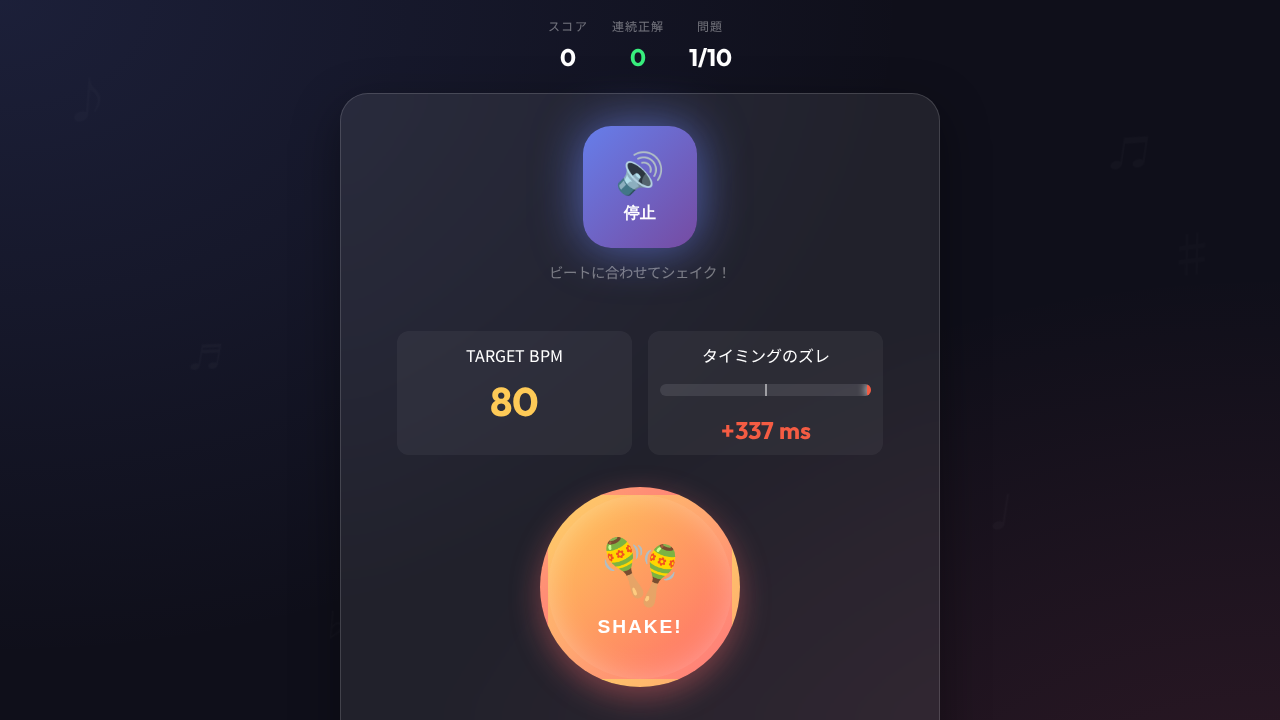
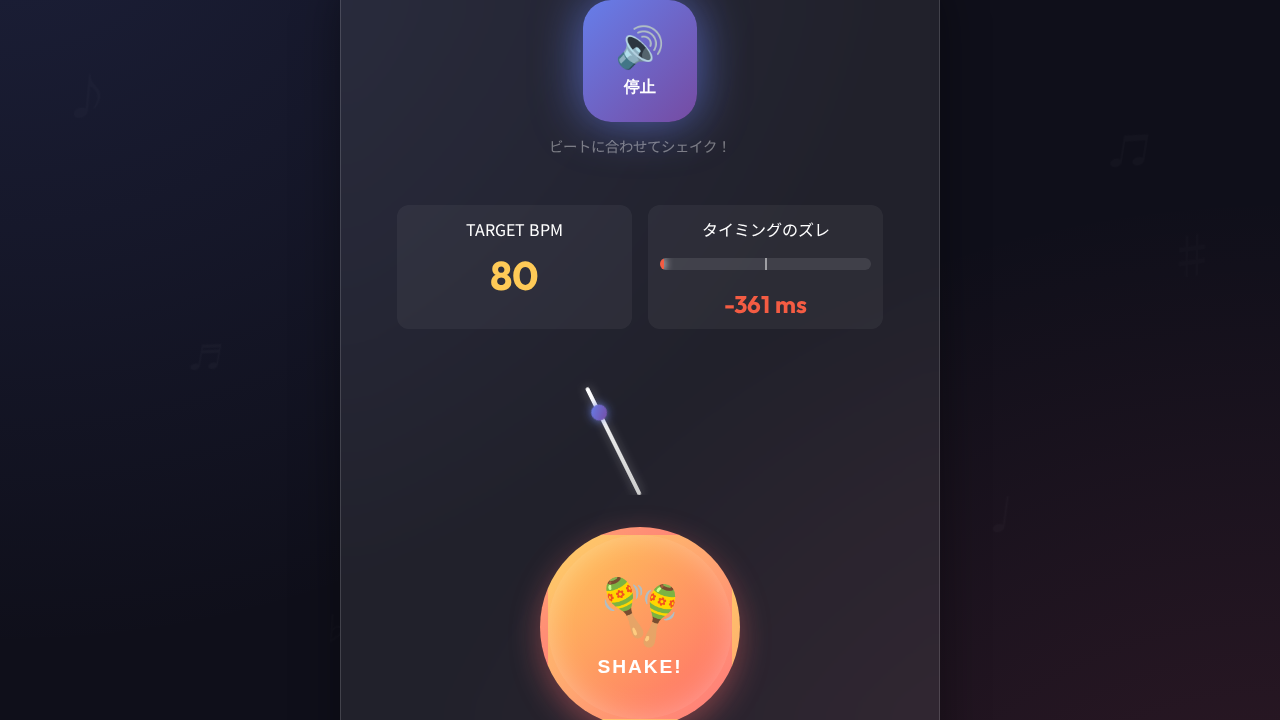
Add visual metronome to Maracas mode

diff --git a/game.js b/game.js
@@ -78,6 +78,7 @@ class Game {
         this.drumModeUI = document.getElementById('drum-mode-ui');
         this.drumPads = document.getElementById('drum-pads');
         this.maracasModeUI = document.getElementById('maracas-mode-ui');
+        this.metronomeRod = document.getElementById('metronome-rod');
 
         // ボタンイベント
         document.querySelectorAll('.instrument-btn').forEach(btn => {
@@ -1557,6 +1558,15 @@ class Game {
         this.maracasBeatCount = 0;
         this.maracasStats = { count: 0, sumAbsDiff: 0, maxDiff: 0, correctCount: 0 };
 
+        // メトロノームビジュアルの初期化
+        if (this.metronomeRod) {
+            const intervalSec = 60 / this.maracasBpm;
+            this.metronomeRod.style.transitionDuration = `${intervalSec}s`;
+            // 左からスタートするために初期状態を設定
+            this.metronomeRod.classList.remove('swing-right');
+            this.metronomeRod.classList.add('swing-left');
+        }
+
         const playBtn = document.getElementById('play-sound-btn');
         playBtn.classList.add('playing');
         playBtn.querySelector('.play-text').textContent = '停止';
@@ -1574,6 +1584,12 @@ class Game {
         audioEngine.stopMetronome();
         this.maracasIsPlaying = false;
 
+        // メトロノームビジュアルのリセット
+        if (this.metronomeRod) {
+            this.metronomeRod.style.transitionDuration = '0.3s';
+            this.metronomeRod.classList.remove('swing-left', 'swing-right');
+        }
+
         const playBtn = document.getElementById('play-sound-btn');
         playBtn.classList.remove('playing');
         playBtn.querySelector('.play-text').textContent = '音を聴く';
@@ -1582,6 +1598,17 @@ class Game {
     onMaracasBeat(beatCount) {
         this.maracasLastBeatTime = Date.now();
         this.maracasBeatCount = beatCount;
+
+        // メトロノームアニメーション更新
+        if (this.metronomeRod) {
+            if (beatCount % 2 === 0) {
+                this.metronomeRod.classList.remove('swing-left');
+                this.metronomeRod.classList.add('swing-right');
+            } else {
+                this.metronomeRod.classList.remove('swing-right');
+                this.metronomeRod.classList.add('swing-left');
+            }
+        }
 
         // セッション終了チェック
         if (beatCount >= this.maracasDurationBeats) {

diff --git a/styles.css b/styles.css
@@ -2361,3 +2361,48 @@ input:checked + .toggle-slider:before {
     0% { transform: translate(-50%, -50%) scale(0); opacity: 1; }
     100% { transform: translate(-50%, -50%) scale(2); opacity: 0; }
 }
+
+/* ========== メトロノームビジュアル ========== */
+.metronome-visual {
+    position: relative;
+    width: 200px;
+    height: 150px;
+    margin: 0 auto;
+    overflow: hidden;
+    display: flex;
+    justify-content: center;
+    align-items: flex-end;
+}
+
+.metronome-rod {
+    width: 4px;
+    height: 120px;
+    background: linear-gradient(to top, #ccc, #fff);
+    border-radius: 2px;
+    position: relative;
+    transform-origin: bottom center;
+    transform: rotate(0deg);
+    /* Transition duration will be set by JS */
+    transition: transform 0.5s ease-in-out;
+    box-shadow: 0 0 10px rgba(255, 255, 255, 0.3);
+}
+
+.metronome-weight {
+    width: 16px;
+    height: 16px;
+    background: var(--primary-gradient);
+    border-radius: 50%;
+    position: absolute;
+    top: 20px;
+    left: 50%;
+    transform: translateX(-50%);
+    box-shadow: 0 0 10px rgba(102, 126, 234, 0.8);
+}
+
+.metronome-rod.swing-left {
+    transform: rotate(-35deg);
+}
+
+.metronome-rod.swing-right {
+    transform: rotate(35deg);
+}

diff --git a/index.html b/index.html
@@ -426,6 +426,15 @@
                                 </div>
                             </div>
 
+                            <!-- メトロノームビジュアル -->
+                            <div class="metronome-visual">
+                                <div class="metronome-body">
+                                    <div class="metronome-rod" id="metronome-rod">
+                                        <div class="metronome-weight"></div>
+                                    </div>
+                                </div>
+                            </div>
+
                             <div class="maracas-pad-container">
                                 <button class="maracas-pad" id="maracas-pad">
                                     <span class="pad-icon">🪇</span>
